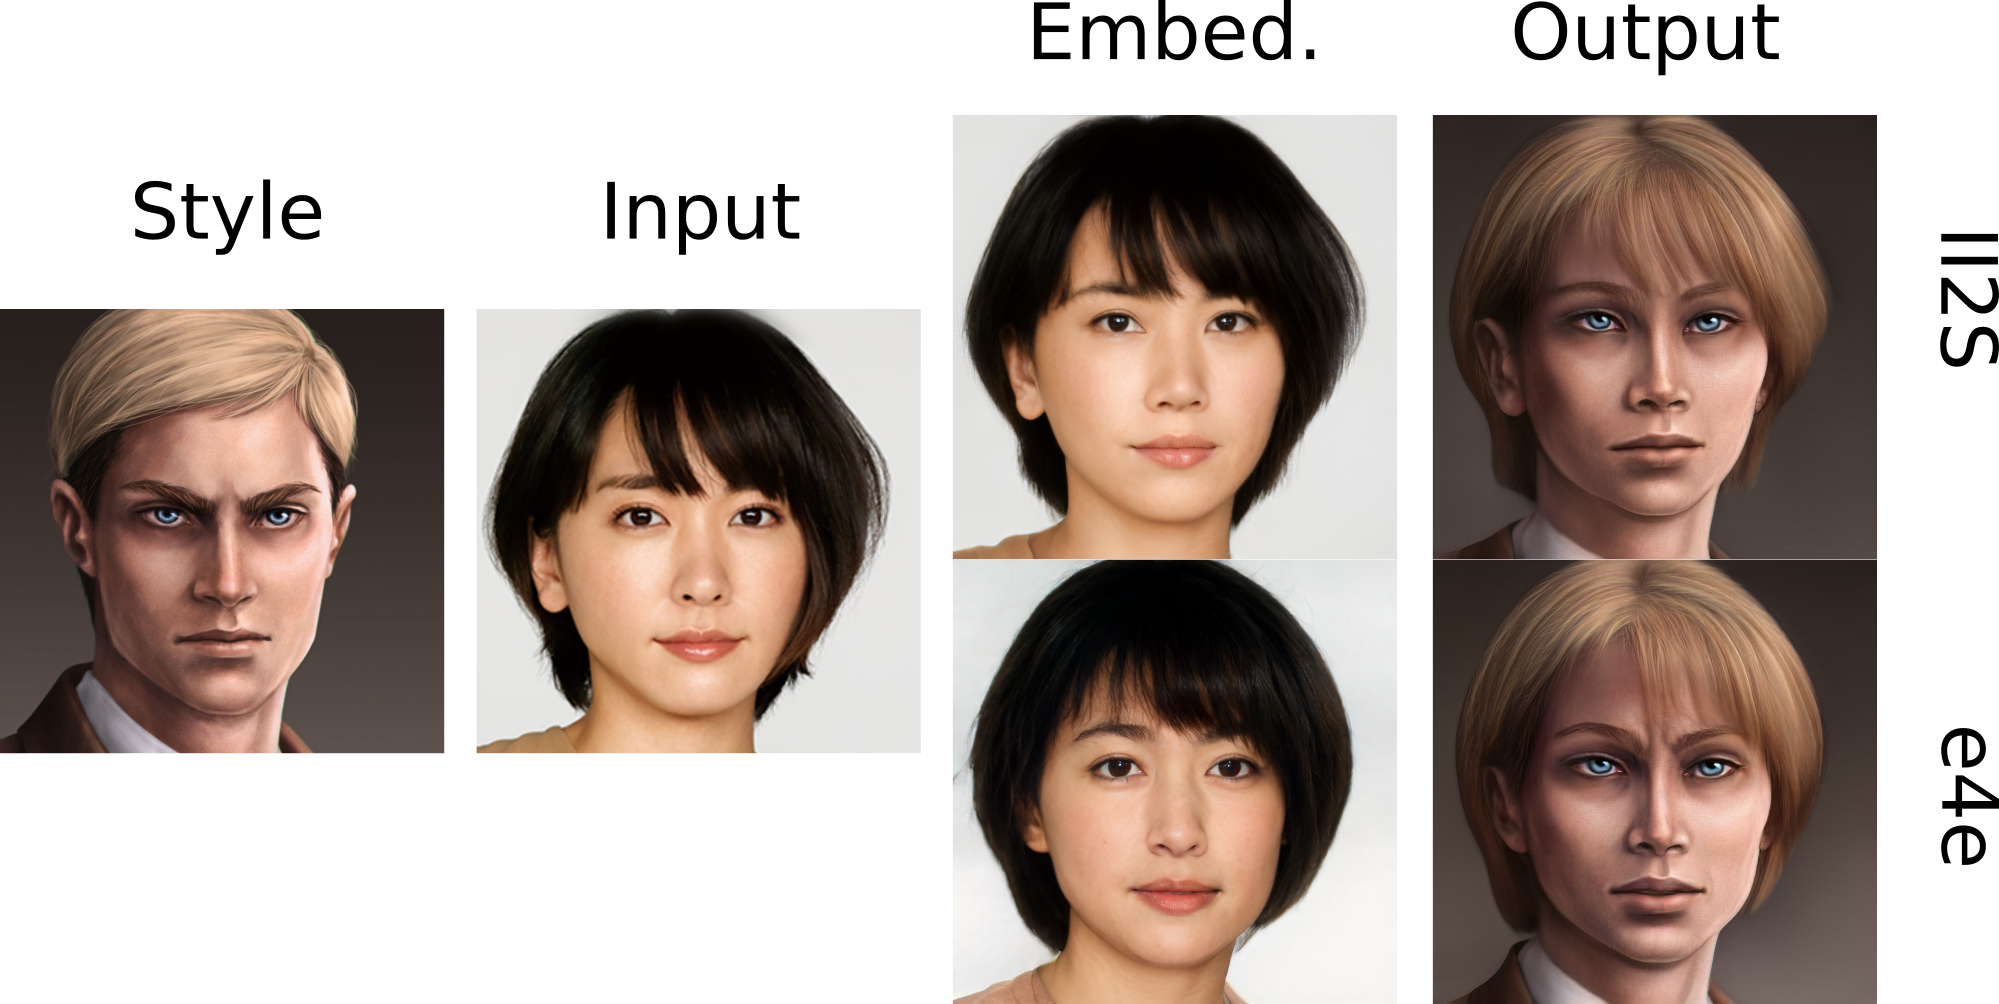
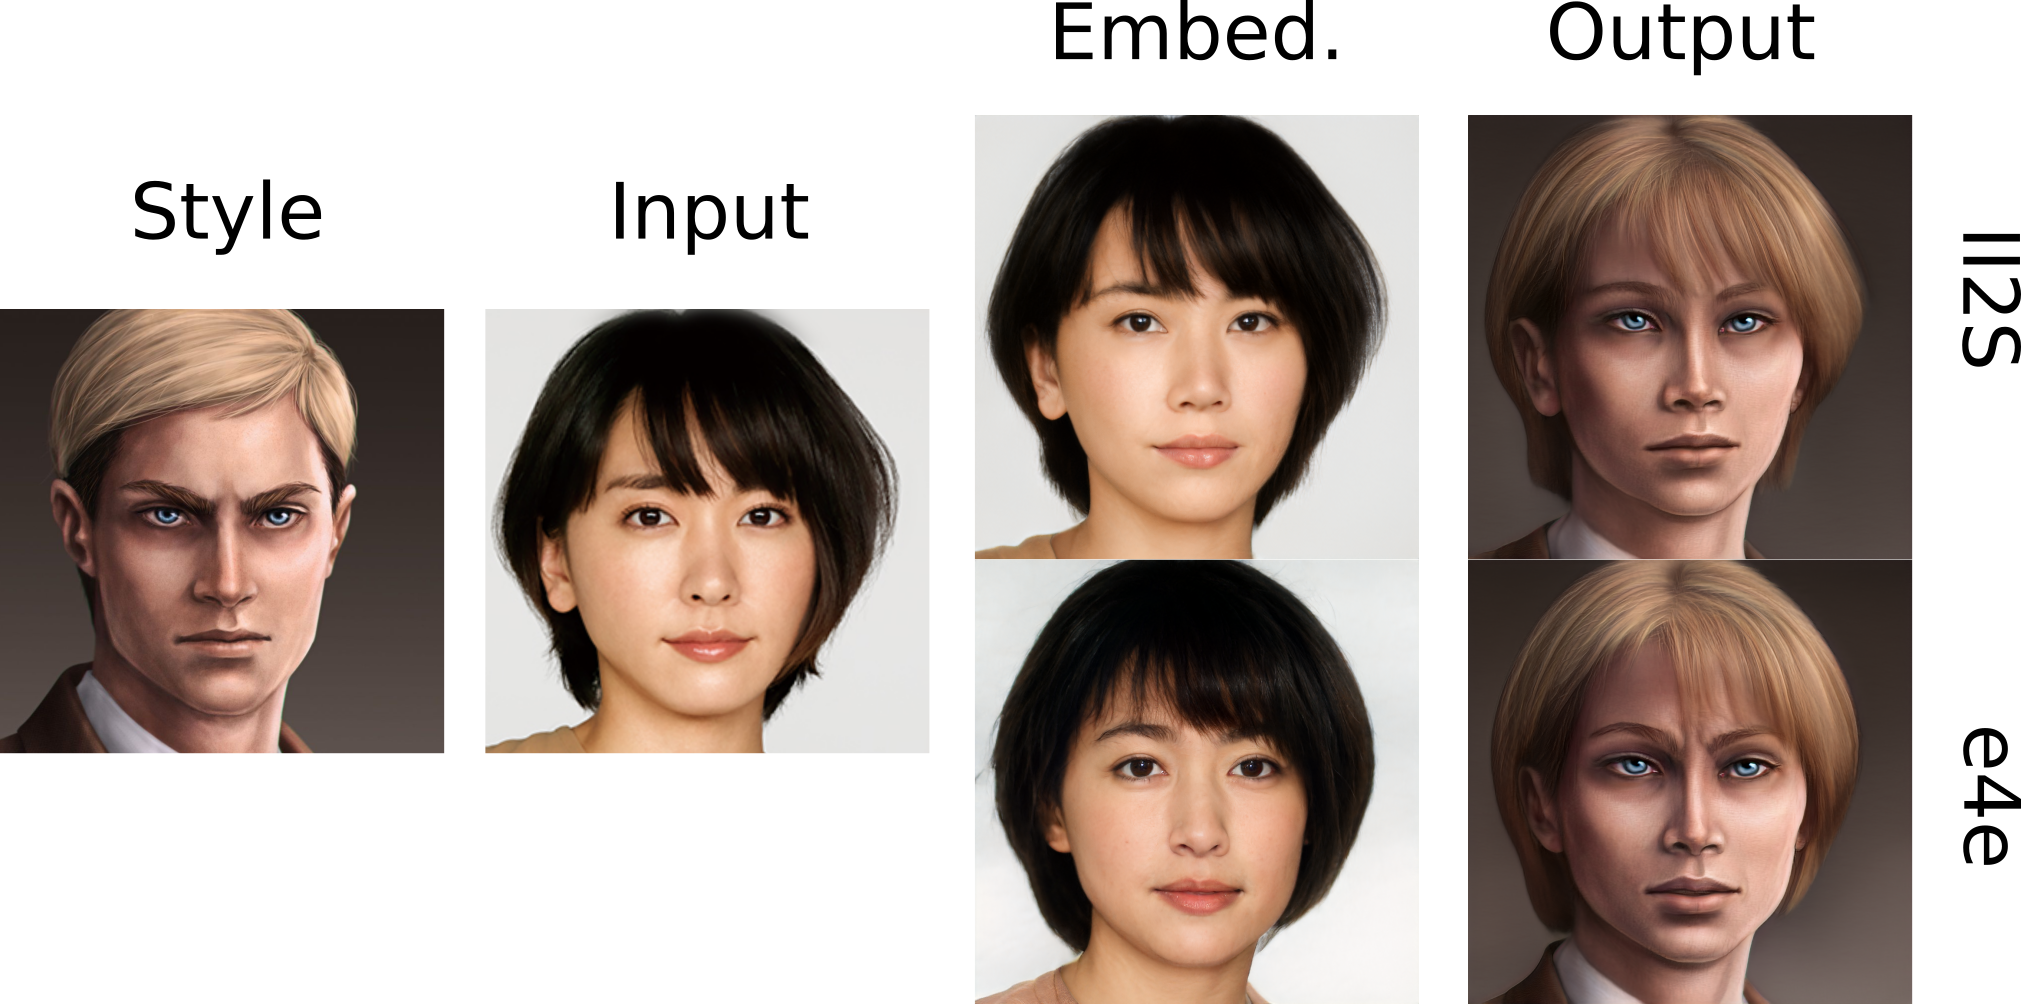
update

diff --git a/README.md b/README.md
@@ -91,7 +91,7 @@ python inference.py --input_img Yui.jpg --style_img titan_erwin.png --embedding_
 ```
 **Remark**: Although using e4e can save inference time, its embedding results are sometimes very different from the input image.
 <p align="left">
-<img src="docs/assets/e4eVSii2s.png" width="400px"/>
+<img src="docs/assets/e4eVSii2s.png" width="600px"/>
 </p>
 
 
